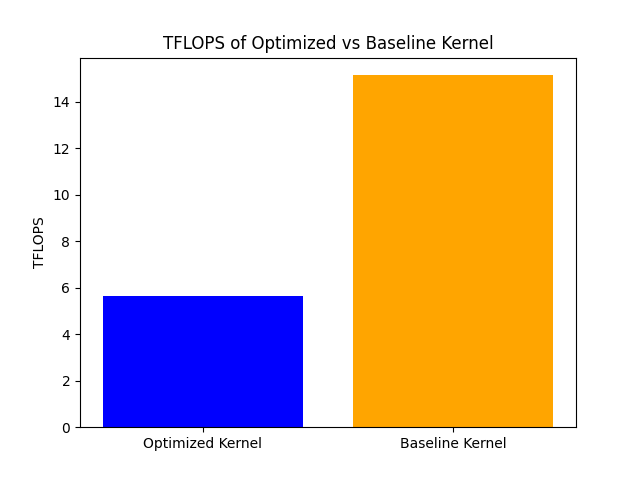
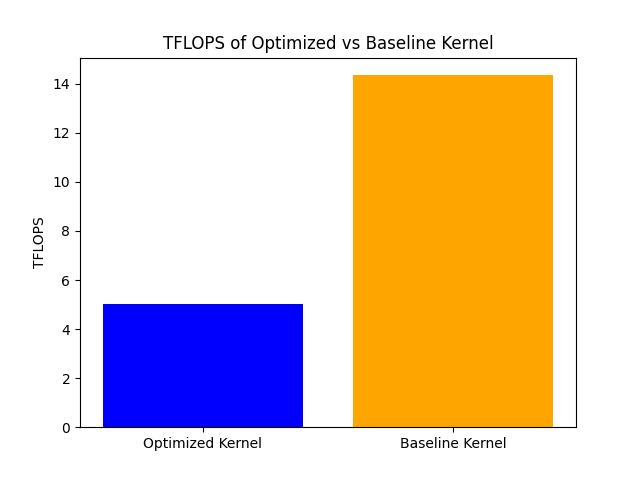
week 5: correcting n_l2, m_l2 sizes for swizzeling

diff --git a/assignments/05_assignment/src/task4.py b/assignments/05_assignment/src/task4.py
@@ -77,7 +77,7 @@ def task_c_and_d():
     m_prim = n_prim = 64
     k_prim = 128
     m_l2 = 16
-    n_l2 = 32
+    n_l2 = 16
 
     k_outer = k // k_prim
     m_outer = m // (m_l2 * m_prim)

diff --git a/assignments/05_assignment/05_results.md b/assignments/05_assignment/05_results.md
@@ -107,7 +107,20 @@ This is solved for `m_prim = sqrt(max_shared_memory_per_block/12)`
 In the case of 48 KiB of shared memory, `m_prim = n_prim = 64` and `k_prim = max_shared_memory_per_block / (4 * m_prim) - m_prim = 128` is optimal.
 
 ### L2 sizes
-Next we want to choose `m_l2` and `n_l2` such that they fit into the L2 cache. The size of the L2 cache on our machine is 24MiB. Each kernel block loads `k//k_prim=32` tiles of A and B of size `k_prim * m_prim` and `k_prim * n_prim` respectively with `128*64*2 = 16384` bytes. So in total we can load `24 MiB / 16384 bytes = 1536` tiles of A and B into the L2 cache, resulting in `1536 / 32 = 48` kernel blocks fitting into the L2 cache. So we can choose `m_l2 = n_l2 = 24` to have 48 blocks working on different `m_l2, n_l2` tiles while reusing the same `k_outer` tiles in L2. Another option is `m_l2 = 32` and `n_l2 = 16`, also resulting in 48 blocks in L2. This might be better since both are a power of two.
+
+Next we want to choose `m_l2` and `n_l2` such that a swizzle block fits into the L2 cache. 
+The size of the L2 cache on our machine is 24MiB. 
+Every kernel loads `k_outer * m_prim * k_prim` values from matrix A and `k_outer * n_prim * k_prim` from B, respectively.
+The amount of loaded values from A within a swizzle block is linear in `m_l2` and for B linear in `n_l2`.
+Therefore, in total we need to fit `m_l2 * k_outer * m_prim * k_prim + n_l2 * k_outer * n_prim * k_prim` into the L2 cache.
+For optimal L2 use, we want to fill ~90-95% of the 24 MiB (${24 \cdot 1024 \cdot 1024 \text{ bytes} \over 2 \text{ bytes per BF16 value}} = 12582912$ values)
+
+Inserting the previously calculated values, we land on:
+$$m_{L2} \cdot \frac {4096} {128} \cdot 64 \cdot 128 + n_{L2} \cdot \frac {4096} {128} \cdot 64 \cdot 128 \le 12582912$$
+$$262144(m_{L2} + n_{L2}) \le 12582912$$
+$$m_{L2} + n_{L2} \le 48$$
+
+We want to maximize the values calculated per swizzle block, thus maximizing $m_{L2} \cdot n_{L2}$. Good values, therefore would be $m_{L2} = n_{L2} = 16$. while only using 67% of the L2 cache, we stick to sizes being a power of 2
 
 c) Implement the kernel
 
